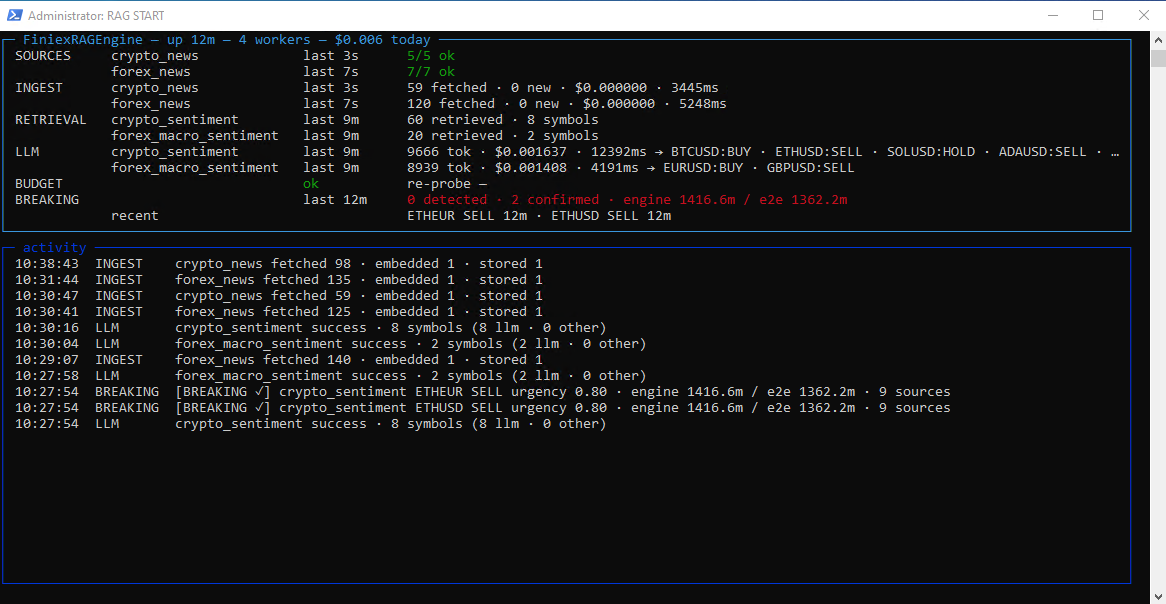
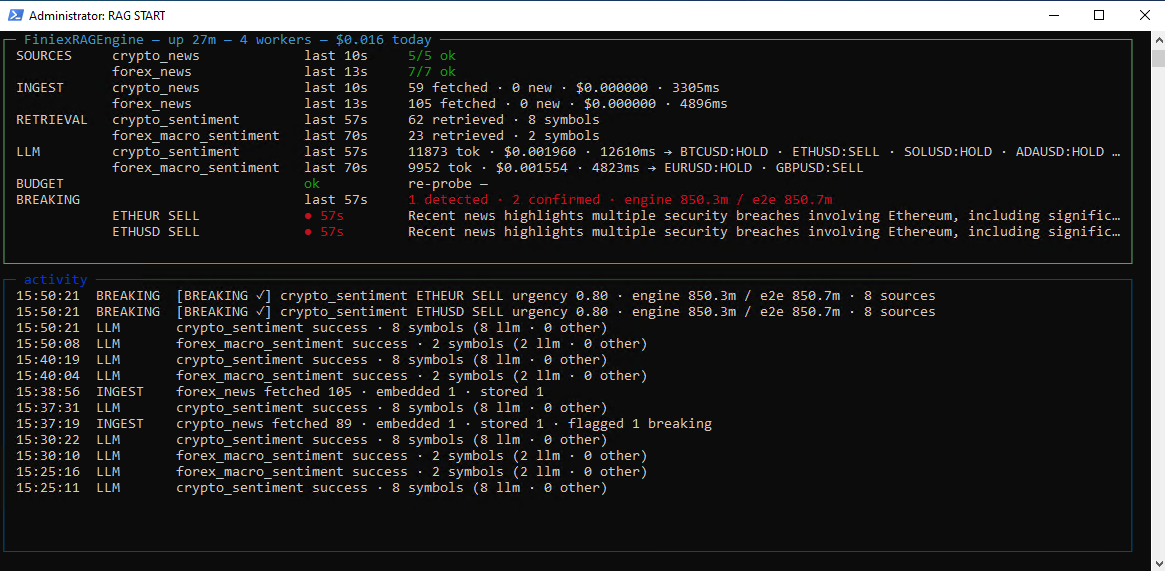
breaking report restructure

Changed region(s): [[0.0, 0.0, 1.0, 0.9825], [0.9888, 0.9825, 1.0, 1.0]]

diff --git a/finiexragengine/core/observability/reports/breaking_report.py b/finiexragengine/core/observability/reports/breaking_report.py
@@ -7,6 +7,7 @@ cannot be rebuilt after the fact, so it rides on fields captured at the event: t
 `flagged_at` lives in the corpus and feeds the funnel's numerator.
 """
 import json
+import shutil
 from dataclasses import dataclass, field
 from datetime import datetime
 from typing import Dict, List, Optional, Tuple
@@ -150,7 +151,9 @@ def _aggregate(rows: List[Tuple[str, object]], flagged: int,
             last_ts = t3
 
     ordered = sorted(per_pipeline.values(), key=lambda row: row.pipeline_id)
-    episodes.sort(key=lambda episode: (episode.pipeline_id, episode.started))
+    # Group the listing by pipeline THEN symbol (then time): a symbol's episodes cluster, so signal
+    # consistency (all BUY vs a BUY→SELL flip) is scannable at a glance (ISSUE_64 feedback).
+    episodes.sort(key=lambda episode: (episode.pipeline_id, episode.symbol, episode.started))
     return BreakingReport(since_label, ordered, flagged,
                           sum(row.confirmed for row in ordered), episodes)
 
@@ -168,8 +171,18 @@ def _fmt_pair(values: List[float]) -> str:
     return f'{_fmt_seconds(median)} / {_fmt_seconds(_percentile(values, 0.9))}'
 
 
-def format_breaking_report(report: BreakingReport) -> str:
-    """Render the report as the shared console pattern (no per-run footer — this is an aggregate)."""
+def _truncate(text: str, budget: int) -> str:
+    """Cut `text` to `budget` cells, ellipsis-marked — so a long reason never overruns the console."""
+    return text if len(text) <= budget else text[:budget - 1] + '…'
+
+
+def format_breaking_report(report: BreakingReport, *, width: Optional[int] = None) -> str:
+    """Render the report as the shared console pattern (no per-run footer — this is an aggregate).
+
+    `width` (default: the live terminal via `shutil.get_terminal_size`, cross-shell, 80 when piped)
+    caps the reason column so a long line adapts to the console instead of a fixed cut.
+    """
+    term_width = width if width is not None else shutil.get_terminal_size((80, 24)).columns
     divider = '-' * 72
     lines = [
         'Breaking Detection — reaction & funnel',
@@ -200,14 +213,23 @@ def format_breaking_report(report: BreakingReport) -> str:
     if not report.episodes:
         lines.append('  (none)')
     else:
+        # The fixed prefix is 37 cells (`  {sym:8} {sig:4} {started:>11}  {dur:>6}  `); the reason
+        # fills whatever the console has left, minus a 5-cell safety margin so a slightly-miscounted
+        # width (or a console that reports one column too many) never wraps a line (ISSUE_64 feedback).
+        reason_budget = max(20, term_width - 37 - 5)
         current_pipeline: Optional[str] = None
+        current_symbol: Optional[str] = None
         for episode in report.episodes:
             if episode.pipeline_id != current_pipeline:
                 lines.append(episode.pipeline_id)          # section header per pipeline
                 current_pipeline = episode.pipeline_id
+                current_symbol = None                      # reset the symbol grouping under it
+            # Show the symbol once per group (blank on repeats), so a symbol's rows read as a block
+            # and its signal column (BUY/SELL) is scannable for consistency (ISSUE_64 feedback).
+            symbol_cell = episode.symbol if episode.symbol != current_symbol else ''
+            current_symbol = episode.symbol
             started = episode.started.strftime('%m-%d %H:%M')
             duration = _fmt_seconds(episode.duration_s) if episode.duration_s else '—'
-            reason = episode.reason if len(episode.reason) <= 60 else episode.reason[:59] + '…'
-            lines.append(f'  {episode.symbol:8} {episode.signal:4} {started:>11}  '
-                         f'{duration:>6}  {reason}')
+            lines.append(f'  {symbol_cell:8} {episode.signal:4} {started:>11}  '
+                         f'{duration:>6}  {_truncate(episode.reason, reason_budget)}')
     return '\n'.join(lines)

diff --git a/tests/test_breaking_report.py b/tests/test_breaking_report.py
@@ -89,7 +89,22 @@ def test_episode_listing_shows_started_duration_and_reason():
     assert episode.symbol == 'ETHUSD' and episode.signal == 'SELL'
     assert episode.duration_s == 300.0                              # 5-min span (last − start)
     assert episode.reason == 'greed rising — Musk confirms ETH buy-in'   # frozen at the start
-    out = format_breaking_report(report)
+    out = format_breaking_report(report, width=120)               # explicit width — no ambient TTY dep
     assert 'Breaking episodes — last 7d' in out
     assert 'ETHUSD' in out and 'Musk confirms ETH buy-in' in out
     assert '5.0m' in out                                            # duration rendered
+
+
+def test_episode_listing_groups_by_symbol_and_adapts_width():
+    # ISSUE_64 feedback: cluster a pipeline's episodes by symbol (so signal consistency is scannable)
+    # and cap the reason to the console width instead of a fixed cut.
+    base = datetime(2026, 7, 13, 14, 0, 0, tzinfo=timezone.utc)
+    rows = [
+        _row('p', base, symbol='ETHUSD', signal='BUY', reason='x' * 200),
+        _row('p', base + timedelta(hours=2), symbol='ADAUSD', signal='SELL', reason='y'),
+        _row('p', base + timedelta(hours=4), symbol='ETHUSD', signal='SELL', reason='z'),
+    ]
+    report = _aggregate(rows, 0, '7d')
+    assert [e.symbol for e in report.episodes] == ['ADAUSD', 'ETHUSD', 'ETHUSD']   # grouped by symbol
+    out = format_breaking_report(report, width=100)
+    assert 'x' * 57 in out and 'x' * 58 not in out                  # cut to width budget (100−37−5=58 → 57 + …)